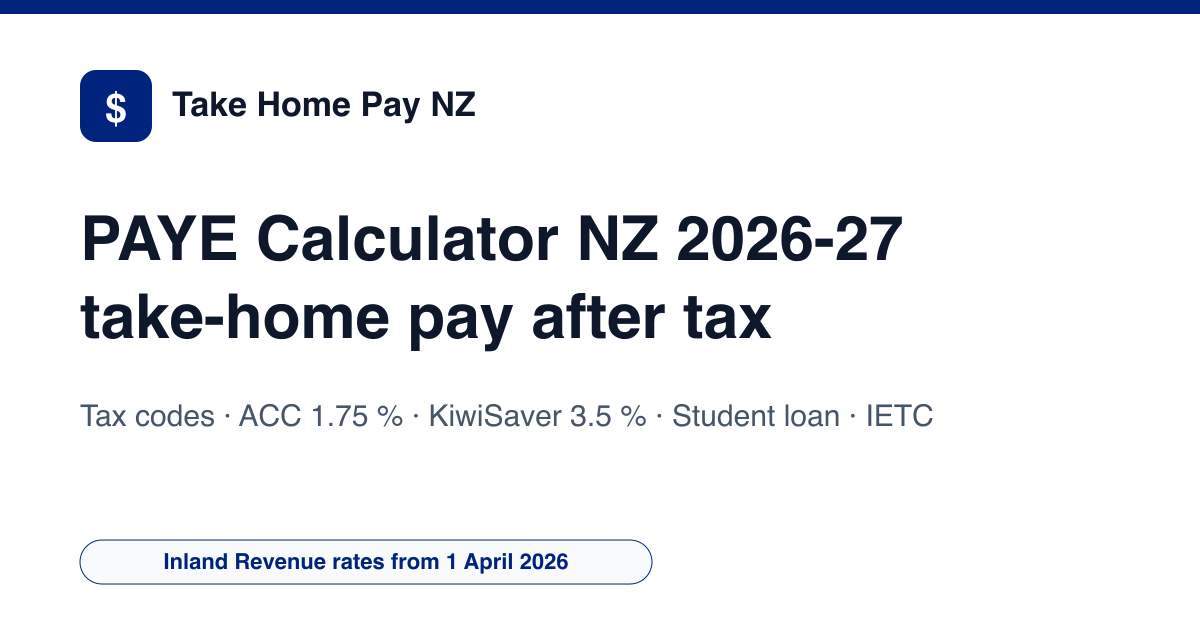
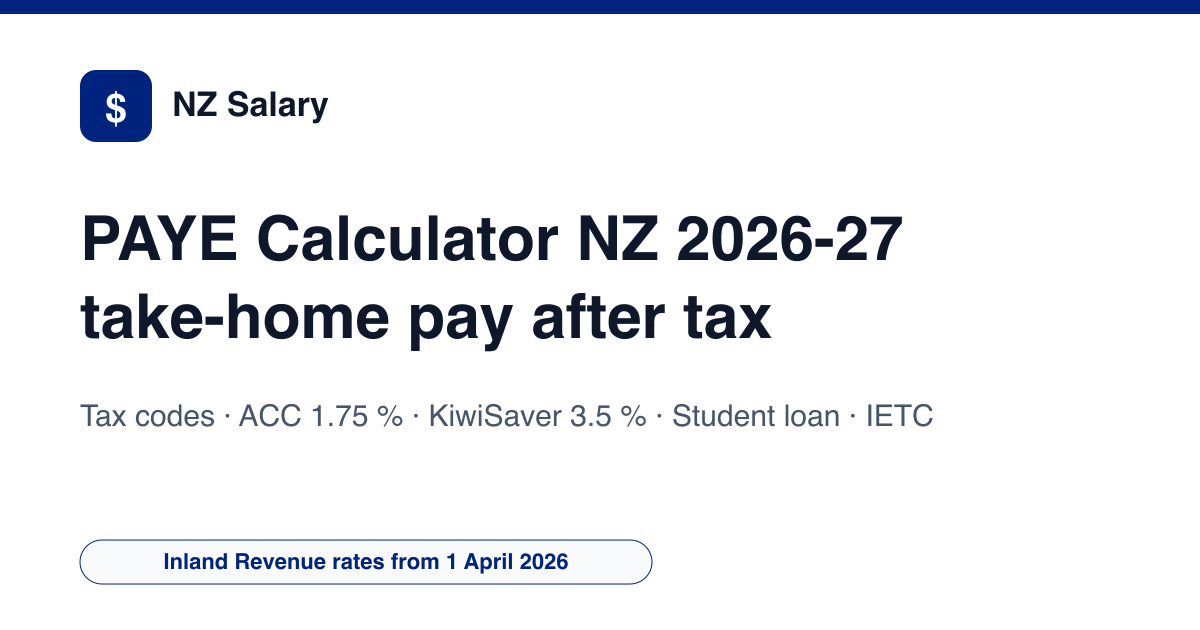
Nouveau domaine : takehomepay.nz devient nzsalary.com (adresse, nom du site, contact, images de partage)

Changed region(s): [[0.1233, 0.1206, 0.4008, 0.2111]]

diff --git a/src/data/site-config.ts b/src/data/site-config.ts
@@ -1,6 +1,6 @@
 /** Configuration centrale du site (générée par new-site.py). */
-export const SITE_URL = "https://takehomepay.nz";
-export const SITE_NAMES: Record<string, string> = {"en": "Take Home Pay NZ"};
+export const SITE_URL = "https://nzsalary.com";
+export const SITE_NAMES: Record<string, string> = {"en": "NZ Salary"};
 export const LANG_TAGS: Record<string, string> = {"en": "en-NZ"};
 export const OG_LOCALES: Record<string, string> = {"en": "en_NZ"};
 export const LOCALE_TAG = 'en-NZ';
@@ -16,7 +16,7 @@ export const AUTHOR_DESC: Record<string, string> = {"en": "Radif Partners publis
  *  themes reellement traites par le site, pas une liste de mots-cles : un sujet
  *  declare ici sans page qui le couvre est une declaration fausse. */
 export const KNOWS_ABOUT: Record<string, string[]> = {"en": ["New Zealand PAYE", "KiwiSaver contributions", "ACC earners' levy", "Student loan repayments", "Personal income tax in New Zealand"]};
-export const CONTACT_EMAIL = "contact@takehomepay.nz";
+export const CONTACT_EMAIL = "contact@nzsalary.com";
 export const THEME_COLOR = '#00247D';
 export const LOGO_SYMBOL = '$';
 export const BING_VERIFY_CODE = '';
